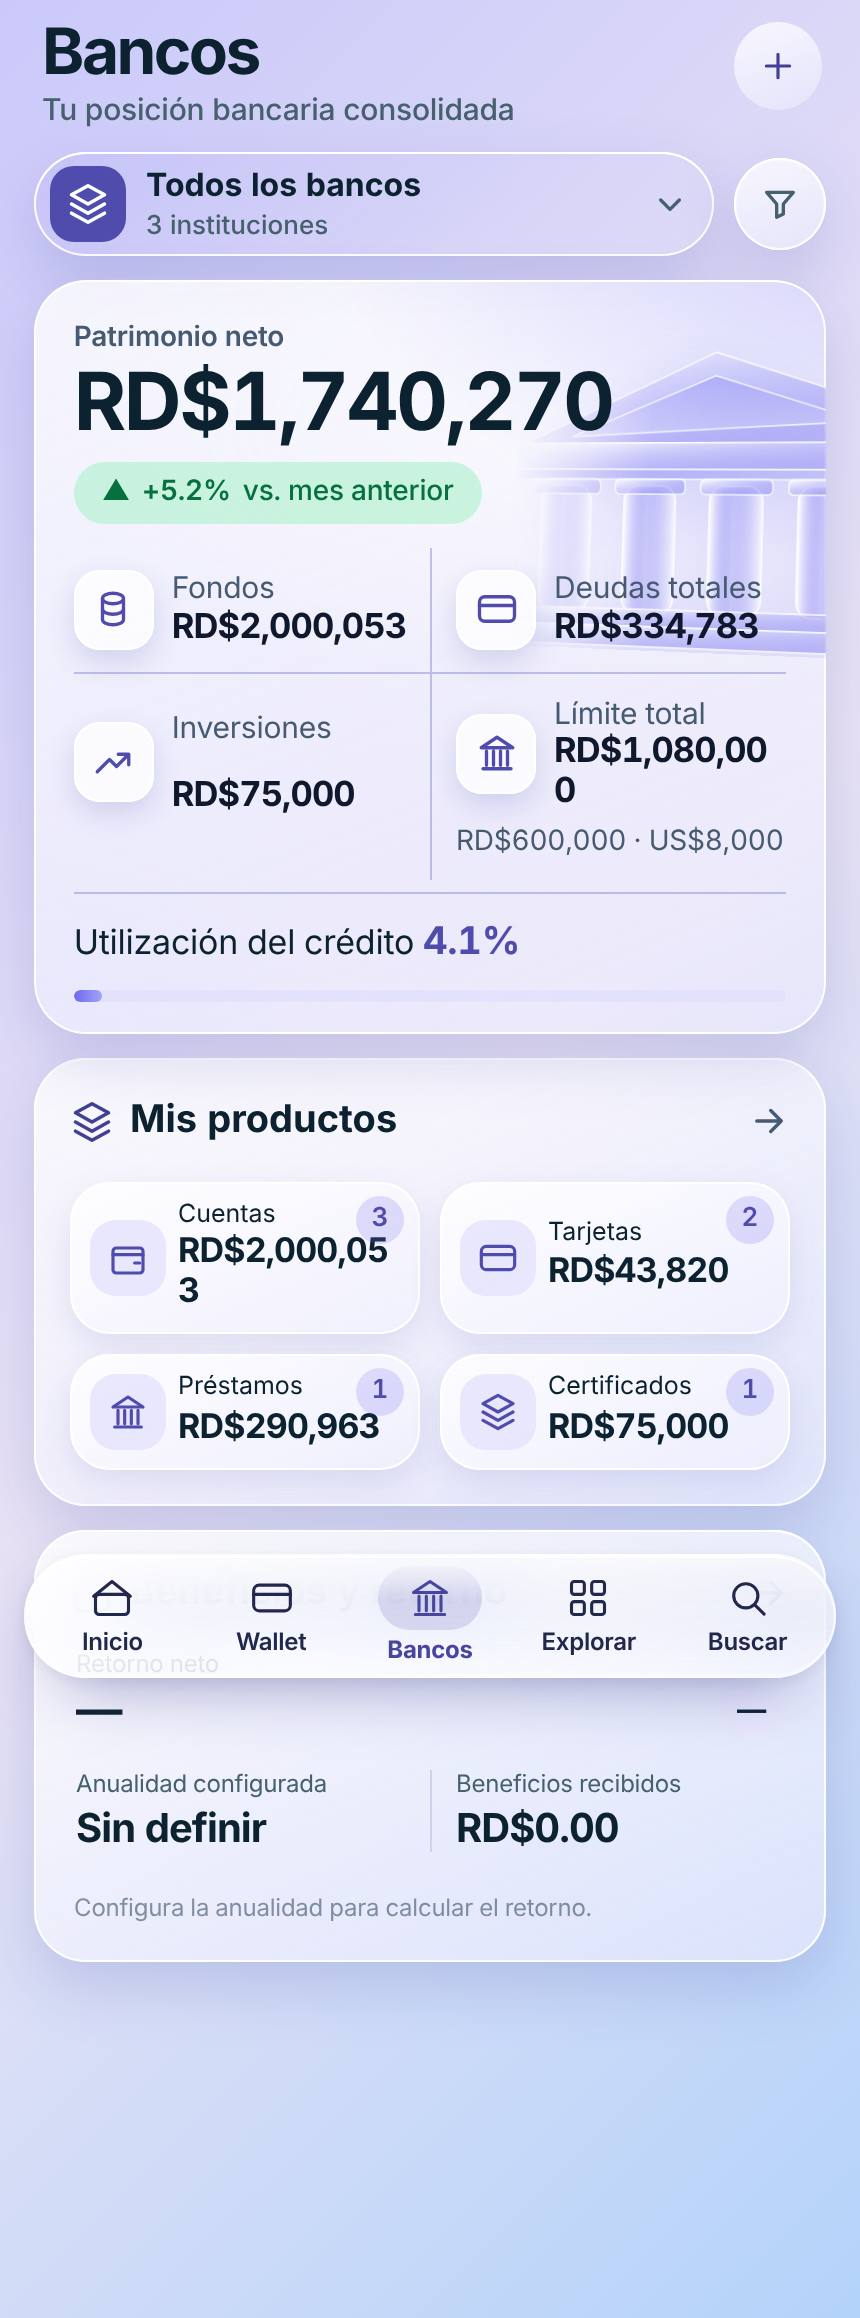
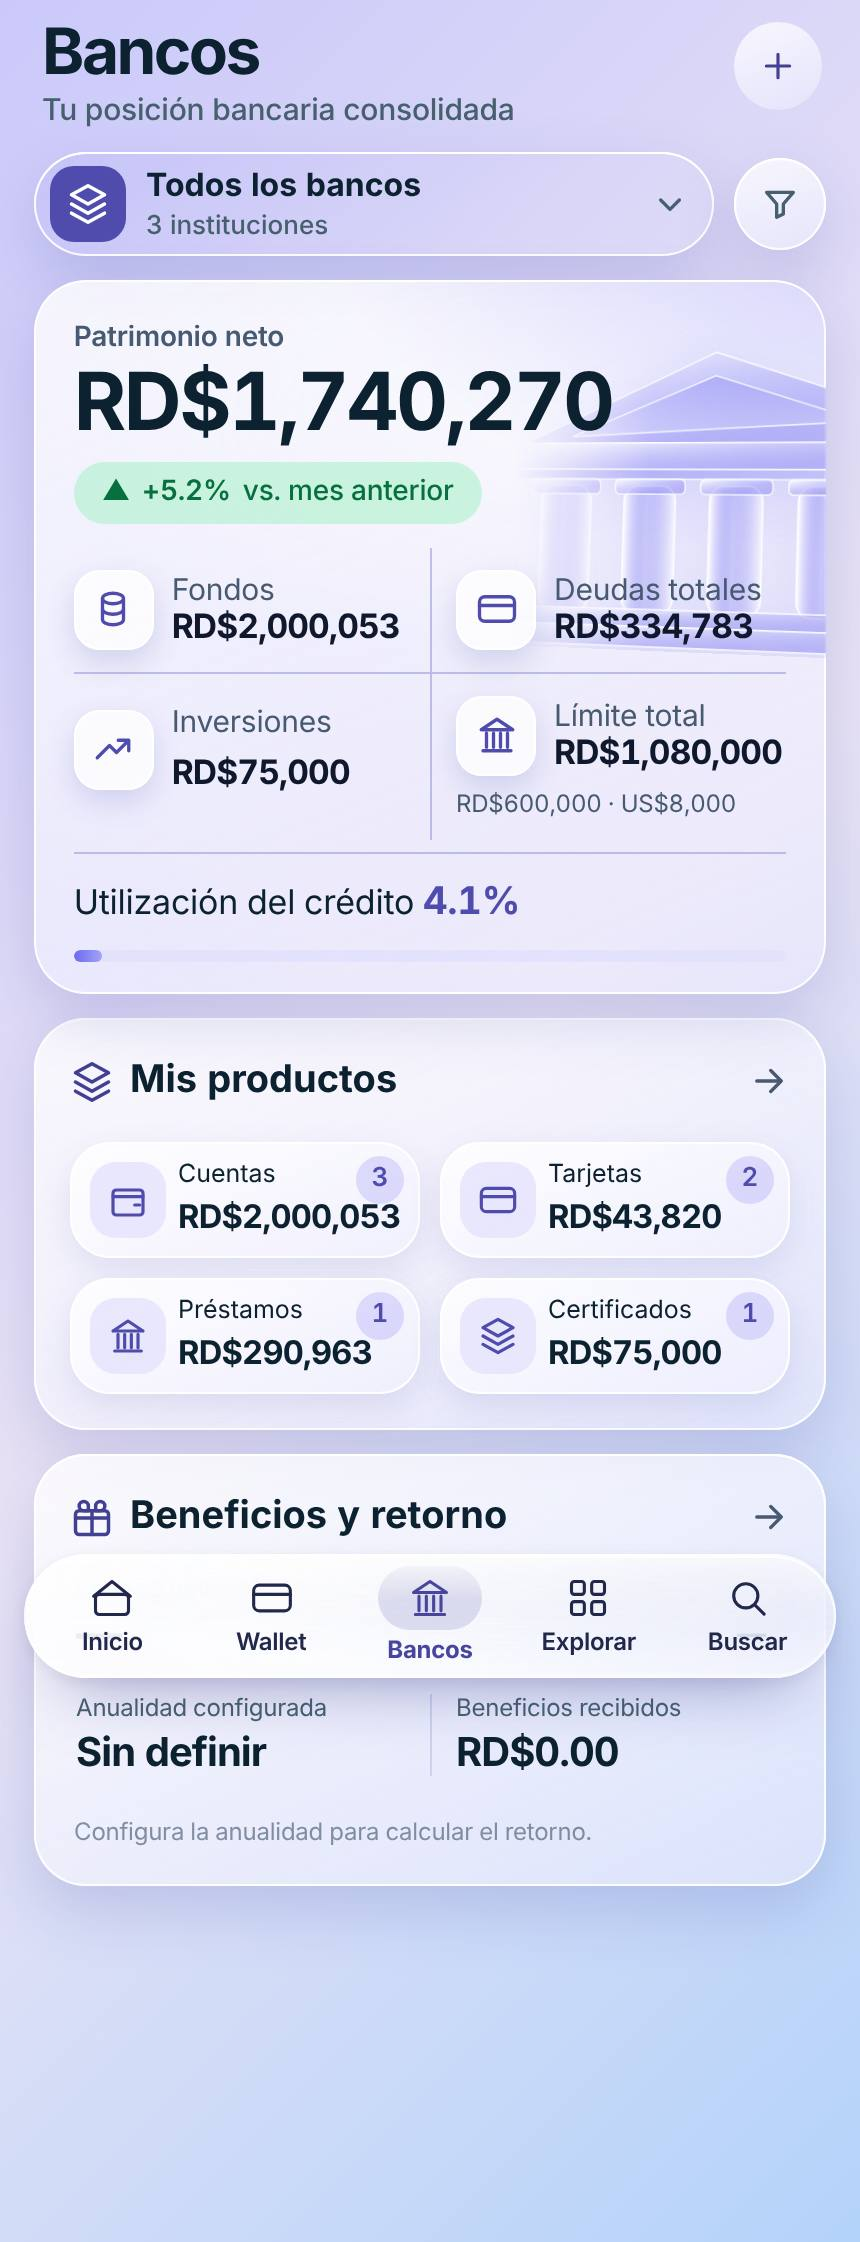
Bancos móvil: importes del héroe y Mis productos ajustados al ancho real sin cortes ni saltos (320–430 px)
Claude-Session: https://claude.ai/code/session_01AwzF8JXGCqasa7rHAy2PHn

diff --git a/src/banks-mobile-glass.css b/src/banks-mobile-glass.css
@@ -187,8 +187,8 @@
  .vBanks-ind-ico{grid-area:ico;align-self:center;display:grid;place-items:center;width:40px;height:40px;border-radius:13px;background:var(--bm-ico);box-shadow:inset 0 0 0 1px var(--bm-edge),0 6px 14px color-mix(in srgb,var(--bm-a) 12%,rgba(30,60,80,.08));color:var(--vx-accent-ink)}
  .vBanks-ind-ico svg{width:21px;height:21px}
  .vBanks-mobile-hero dt{grid-area:dt;display:block;margin:0;font-size:clamp(13px,3.6vw,15px);font-weight:400;color:var(--bm-mut);line-height:1.2;white-space:nowrap}
- .vBanks-mobile-hero dd{grid-area:dd;margin:1px 0 0;color:var(--bm-ink);font-weight:700;letter-spacing:-.025em;line-height:1.15;white-space:nowrap;font-size:clamp(13px,calc((50cqi - 58px) / (var(--ind-chars,10) * .58)),20px)}
- .vBanks-mobile-hero .vBanks-limit-split{grid-area:sp;display:block;margin:6px 0 0;font-size:12px;font-weight:400;color:var(--bm-mut);white-space:nowrap;overflow:visible}
+ .vBanks-mobile-hero dd{grid-area:dd;margin:1px 0 0;color:var(--bm-ink);font-weight:700;letter-spacing:-.025em;line-height:1.15;white-space:nowrap;font-size:clamp(13px,calc((50vw - 82px) / (var(--ind-chars,10) * .66)),20px)}
+ .vBanks-mobile-hero .vBanks-limit-split{grid-area:sp;display:block;margin:6px 0 0;font-size:12px;font-weight:400;color:var(--bm-mut);white-space:normal;overflow:visible}
  /* Utilización del crédito */
  .vBanks-mobile-hero .vBanks-mobile-utilization{position:relative;z-index:1;display:grid;gap:8px;margin-top:6px;padding-top:12px;border-top:1px solid var(--bm-line);font-size:clamp(15px,4.2vw,17px);font-weight:400;color:var(--bm-ink)}
  .vBanks-mobile-hero .vBanks-mobile-utilization strong{color:var(--vx-accent-ink);font-weight:700;font-size:1.12em}
@@ -205,7 +205,7 @@
  html body[data-vive-bg] #app#app#app #page#page .vBanks-mobile-tiles>button>svg{grid-area:ico;box-sizing:content-box!important;width:20px!important;height:20px!important;padding:9px!important;border-radius:13px;background:color-mix(in srgb,var(--bm-a) 15%,var(--bm-ico));color:var(--vx-accent-ink)!important}
  html body[data-vive-bg] #app#app#app #page#page .vBanks-mobile-tiles>button>small{position:absolute;top:7px;right:8px;display:grid;place-items:center;min-width:24px;height:24px;padding:0 5px;border-radius:99px;background:color-mix(in srgb,var(--bm-a) 20%,transparent);color:var(--vx-accent-ink)!important;font-size:13px;font-weight:600;line-height:1}
  .vBanks-mobile-tiles>button>span{grid-area:lab;padding-right:26px;font-size:clamp(13px,3.7vw,15px);font-weight:400;color:var(--bm-mut);line-height:1.2;white-space:nowrap;overflow:hidden;text-overflow:ellipsis}
- .vBanks-mobile-tiles>button>strong{grid-area:val;color:var(--bm-ink);font-weight:700;letter-spacing:-.025em;white-space:nowrap;line-height:1.15;font-size:clamp(13px,calc((100cqi - 64px) / (var(--bank-chars,10) * .62)),19px)}
+ .vBanks-mobile-tiles>button>strong{grid-area:val;color:var(--bm-ink);font-weight:700;letter-spacing:-.025em;white-space:nowrap;line-height:1.15;font-size:clamp(13px,calc((50vw - 92px) / (var(--bank-chars,10) * .68)),19px)}
  /* Beneficios y retorno */
  .vBanks-mobile-return .vBanks-return-main{display:flex;align-items:center;justify-content:space-between;gap:12px;padding:2px 0 12px;border:0}
  .vBanks-mobile-return .vBanks-return-main>div{min-width:0;container-type:inline-size;flex:1 1 auto}
@@ -233,13 +233,19 @@
 }
 @media(max-width:790px){
  /* Importes extremos: la cifra baja de línea en vez de cortarse o empujar la tarjeta */
- .vBanks-mobile-hero dd,.vBanks-mobile-tiles>button>strong{white-space:normal;overflow-wrap:anywhere;min-width:0}
- .vBanks-mobile-hero .vBanks-limit-split{white-space:normal;overflow-wrap:anywhere}
+ .vBanks-mobile-hero dd,.vBanks-mobile-tiles>button>strong{white-space:nowrap;min-width:0}
+ .vBanks-mobile-hero .vBanks-limit-split{white-space:normal}
  .vBanks-mobile-hero dl>div{min-width:0}
 }
 @media(max-width:790px){
- html body #app#app#app #page#page .vBanks-mobile:has(>.vBanks-mobile-hero) :is(.vBanks-mobile-hero dl,.vBanks-mobile-tiles) .vx-money{min-width:0!important;white-space:normal!important;overflow-wrap:anywhere!important}
+ html body #app#app#app #page#page .vBanks-mobile:has(>.vBanks-mobile-hero) :is(.vBanks-mobile-hero dl,.vBanks-mobile-tiles) .vx-money{min-width:0!important;white-space:nowrap!important}
  html body[data-vive-bg] #app#app #page .vBanks-mobile > :is(.vBanks-mobile-products,.vBanks-mobile-return){
   box-sizing:border-box;width:100%;min-width:0;margin:0!important;
   padding:clamp(16px,4.4vw,19px)!important;border-radius:22px!important}
 }
+/* 320–340 px: último recurso, el importe puede partirse en lugar de salirse de la tarjeta */
+@media (max-width:340px){html body #app#app#app #page#page .vBanks-mobile:has(>.vBanks-mobile-hero) :is(.vBanks-mobile-hero dd,.vBanks-mobile-hero .vBanks-limit-split,.vBanks-mobile-tiles>button>strong,.vBanks-mobile-hero dl .vx-money,.vBanks-mobile-tiles .vx-money){white-space:normal!important;overflow-wrap:anywhere!important}}
+/* Importes de Mis productos y límite: tamaño ajustado al ancho real de la subtarjeta (gana a reglas .vx-money previas) */
+html body #app#app#app #page#page .vBanks-mobile:has(>.vBanks-mobile-hero) .vBanks-mobile-tiles>button>strong{font-size:clamp(12px,calc((50vw - 94px) / 7.4),17px)!important}
+html body #app#app#app #page#page .vBanks-mobile:has(>.vBanks-mobile-hero) .vBanks-mobile-hero .vBanks-limit-split{font-size:12px!important;white-space:normal!important;overflow-wrap:anywhere!important;min-width:0}
+html body #app#app#app#app #page#page .vBanks-mobile:has(>.vBanks-mobile-hero) .vBanks-mobile-hero dl .vBanks-limit-split.vx-money{white-space:normal!important;overflow-wrap:anywhere!important}

diff --git a/index.html b/index.html
@@ -35,7 +35,7 @@
 <link rel="stylesheet" href="./src/desktop-legibility.css?v=2011"/>
 <link rel="stylesheet" href="./src/bancos-pc-glass.css?v=541&b=3" media="(min-width: 791px)"/>
 <link rel="stylesheet" href="./src/banks-mobile-legibility.css?v=41" media="(max-width: 790px)"/>
-<link rel="stylesheet" href="./src/banks-mobile-glass.css?v=8.1.1.1.1.1.1.1.1.1.1.111" media="(max-width: 790px)"/>
+<link rel="stylesheet" href="./src/banks-mobile-glass.css?v=8.1.1.1.1.1.1.1.1.1.1.112" media="(max-width: 790px)"/>
 <link rel="stylesheet" href="./src/wallet-glass.css?v=911"/>
 <link rel="stylesheet" href="./src/wallet-reference-fidelity.css?v=81"/>
 <link rel="stylesheet" href="./src/wallet-mobile-approved.css?v=41" media="(max-width: 790px)"/>
